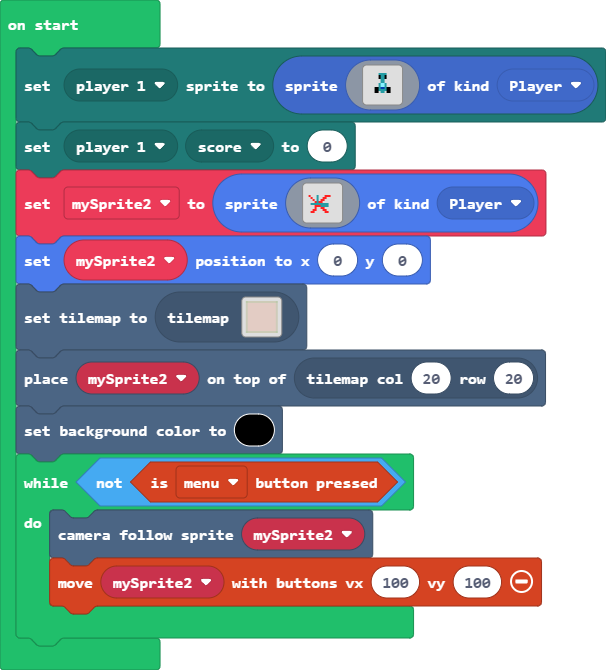
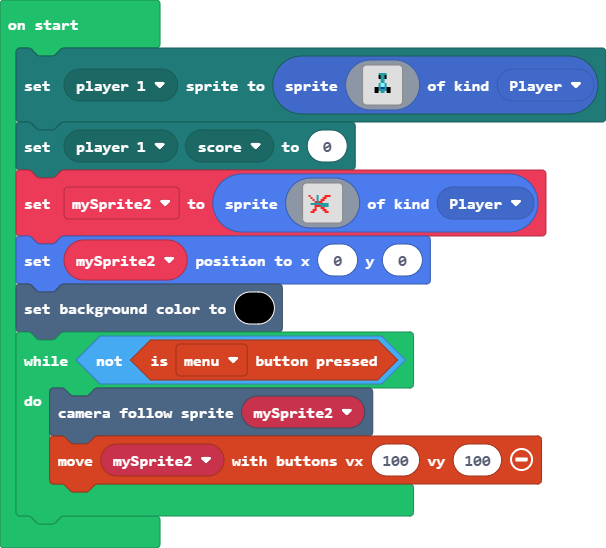
Update main.blocks, main.ts, tilemap.g.jres, tilemap.g.ts

diff --git a/tilemap.g.ts b/tilemap.g.ts
@@ -30,6 +30,25 @@ namespace myTiles {
 . . . . . . . . . . . . . . . . 
 . . . . . . . . . . . . . . . . 
 `, [myTiles.transparency16,sprites.castle.tilePath1,sprites.castle.tilePath2,sprites.castle.tilePath3,sprites.castle.tilePath6,sprites.castle.tilePath9,sprites.castle.tilePath8,sprites.castle.tilePath7,sprites.castle.tilePath4,sprites.castle.tilePath5], TileScale.Sixteen);
+            case "level2":
+            case "level2":return tiles.createTilemap(hex`1000100000000000000000000000000000000000000000000000000000000000000000000000000000000000000000000000000000000000000000000000000000000000000000000000000000000000000000000000000000000000000000000000000000000000000000000000000000000000000000000000000000000000000000000000000000000000000000000000000000000000000000000000000000000000000000000000000000000000000000000000000000000000000000000000000000000000000000000000000000000000000000000000000000000000000000000000000000000000000000000000000000000000000000000000000000000000`, img`
+. . . . . . . . . . . . . . . . 
+. . . . . . . . . . . . . . . . 
+. . . . . . . . . . . . . . . . 
+. . . . . . . . . . . . . . . . 
+. . . . . . . . . . . . . . . . 
+. . . . . . . . . . . . . . . . 
+. . . . . . . . . . . . . . . . 
+. . . . . . . . . . . . . . . . 
+. . . . . . . . . . . . . . . . 
+. . . . . . . . . . . . . . . . 
+. . . . . . . . . . . . . . . . 
+. . . . . . . . . . . . . . . . 
+. . . . . . . . . . . . . . . . 
+. . . . . . . . . . . . . . . . 
+. . . . . . . . . . . . . . . . 
+. . . . . . . . . . . . . . . . 
+`, [myTiles.transparency16], TileScale.Sixteen);
         }
         return null;
     })

diff --git a/main.ts b/main.ts
@@ -2,8 +2,6 @@ mp.setPlayerSprite(mp.playerSelector(mp.PlayerNumber.One), sprites.create(assets
 mp.setPlayerState(mp.playerSelector(mp.PlayerNumber.One), MultiplayerState.score, 0)
 let mySprite2 = sprites.create(assets.image`testsprite`, SpriteKind.Player)
 mySprite2.setPosition(0, 0)
-tiles.setCurrentTilemap(tilemap`bana`)
-tiles.placeOnTile(mySprite2, tiles.getTileLocation(20, 20))
 scene.setBackgroundColor(15)
 while (!(controller.menu.isPressed())) {
     scene.cameraFollowSprite(mySprite2)
